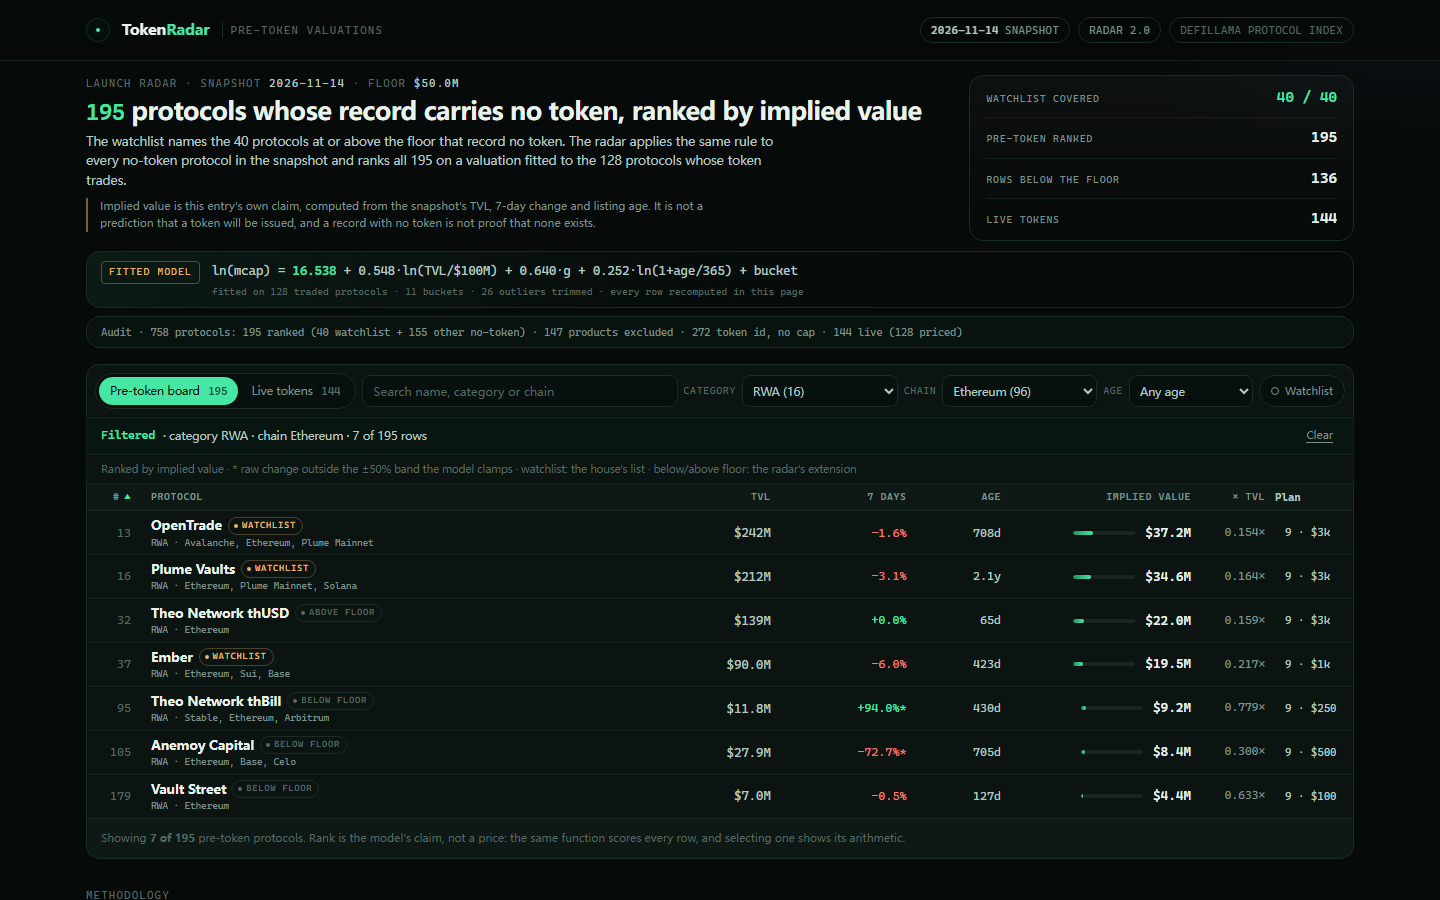
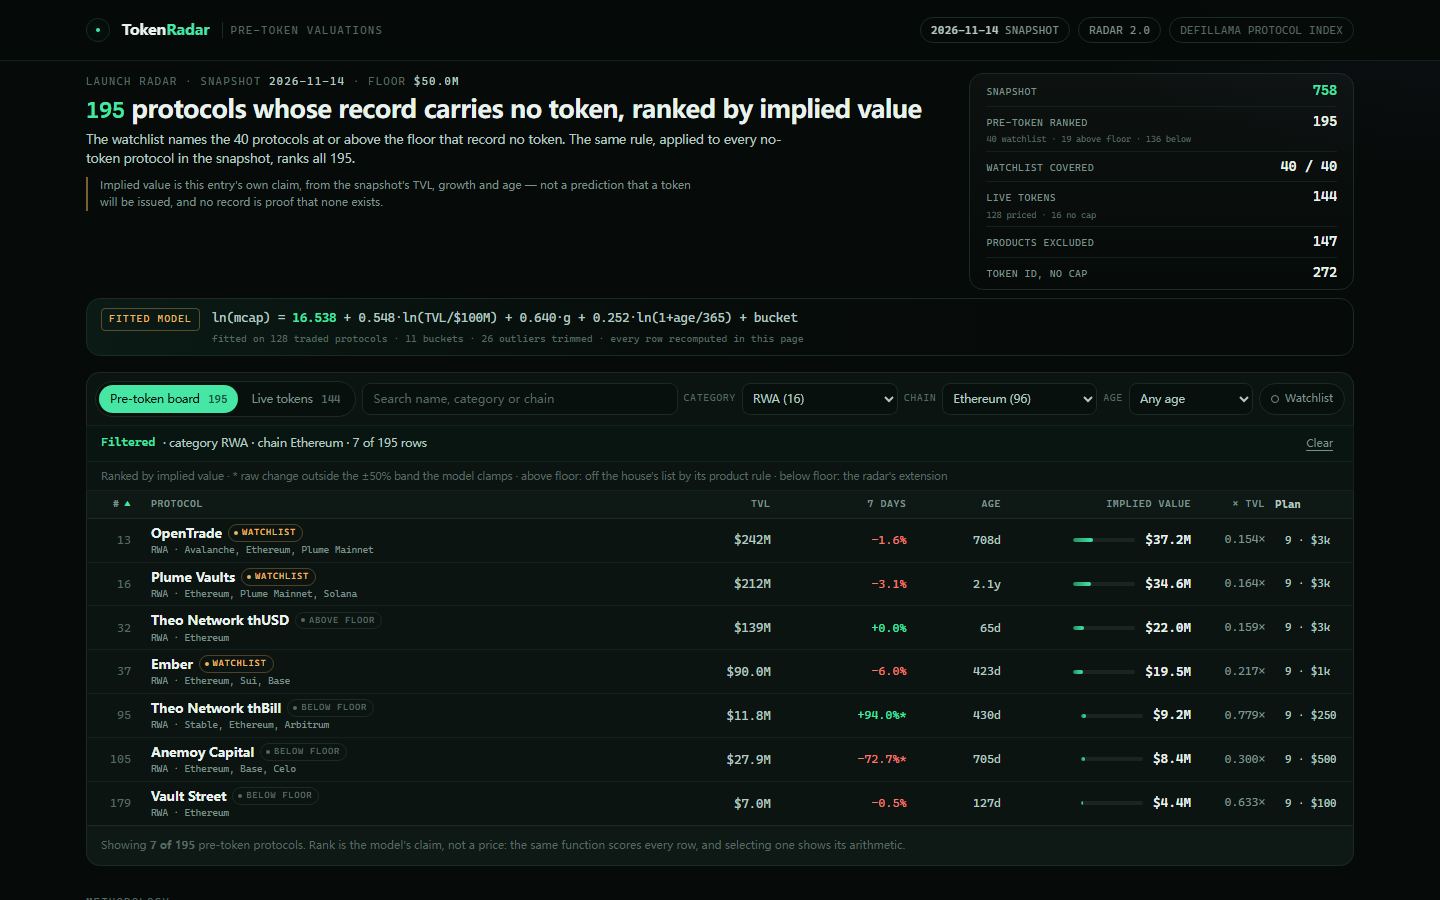
entry: v4 — the audit in the stats card, the above-floor note, zero-cap marks

diff --git a/dashboard/app.js b/dashboard/app.js
@@ -1,6 +1,5 @@
-// Token Radar — the page's behaviour. window.RADAR (written beside dashboard/ by main.ts) carries the
-// snapshot's provenance, the fitted model, the board's inputs and the live rows; every implied value is
-// recomputed from the fitted coefficients and checked against board.json's. No network.
+// Token Radar — the page's behaviour. window.RADAR (written by main.ts) carries the snapshot, the fitted
+// model, the board's inputs and the live rows; every value is recomputed and checked against board.json.
 (function () {
   'use strict';
   var D = window.RADAR;
@@ -61,8 +60,8 @@
     return { base: base, size: size, growth: growth, age: age, category: category, value: value };
   }
   //
-  // Each row's plan and budget travel in data.js (main.ts derives them in lib/farm.ts); the gate's
-  // browser check compares the page's rendering with board.json, and this exposes the page's arithmetic.
+  // Plans and budgets travel in data.js (derived in lib/farm.ts); this exposes the page's arithmetic to
+  // the gate's browser check, which compares the rendering with board.json.
   window.radarParts = partsFor;
   var state = { tab: 'pre', q: '', category: 'all', chain: 'all', age: 'all', watch: false, sort: 'rank', dir: 1, open: null };
   var maxImplied = 1;
@@ -134,10 +133,9 @@
     document.getElementById('hero-floor').textContent = shortUsd(D.floor_usd);
     document.getElementById('hero-count').textContent = D.board_size;
     document.getElementById('facts').textContent = M.facts;
-    document.getElementById('legend').textContent = 'Ranked by implied value · * raw change outside the ±' + M.growth_clip_pct + '% band the model clamps · watchlist: the house\'s list · below/above floor: the radar\'s extension';
+    document.getElementById('legend').textContent = 'Ranked by implied value · * raw change outside the ±' + M.growth_clip_pct + '% band the model clamps · above floor: off the house\'s list by its product rule · below floor: the radar\'s extension';
     document.getElementById('hero-lede').textContent =
-      'The watchlist names the ' + D.watchlist_size + ' protocols at or above the floor that record no token. The radar applies the same rule to every no-token protocol in the snapshot and ranks all ' + D.board_size +
-      ' on a valuation fitted to the ' + D.model.training.n + ' protocols whose token trades.';
+      'The watchlist names the ' + D.watchlist_size + ' protocols at or above the floor that record no token. The same rule, applied to every no-token protocol in the snapshot, ranks all ' + D.board_size + '.';
     document.getElementById('tab-pre-count').textContent = D.board_size;
     document.getElementById('tab-live-count').textContent = D.live_size;
     document.getElementById('foot-source').textContent = D.source;
@@ -146,21 +144,21 @@
       ' other no-token protocols · ' + D.live_size + ' live tokens · ' + D.as_of + '.';
     var stats = document.getElementById('hero-stats');
     clear(stats);
+    var A = D.audit;
     [
+      ['Snapshot', whole(A.total)],
+      ['Pre-token ranked', whole(A.ranked), A.watchlist + ' watchlist · ' + A.above_floor_others + ' above floor · ' + A.below_floor + ' below'],
       ['Watchlist covered', D.watchlist_size + ' / ' + D.watchlist_size],
-      ['Pre-token ranked', whole(D.board_size)],
-      ['Rows below the floor', whole(D.below_floor_size)],
-      ['Live tokens', whole(D.live_size)],
+      ['Live tokens', whole(A.live), A.live_priced + ' priced · ' + (A.live - A.live_priced) + ' no cap'],
+      ['Products excluded', whole(A.excluded)],
+      ['Token id, no cap', whole(A.token_no_cap)],
     ].forEach(function (s) {
       var row = el('div', 'fact');
       row.appendChild(el('span', null, s[0]));
       row.appendChild(el('b', null, s[1]));
+      if (s[2]) row.appendChild(el('em', null, s[2]));
       stats.appendChild(row);
     });
-    var A = D.audit;
-    document.getElementById('audit').textContent =
-      'Audit · ' + A.total + ' protocols: ' + A.ranked + ' ranked (' + A.watchlist + ' watchlist + ' + (A.ranked - A.watchlist) + ' other no-token) · ' +
-      A.excluded + ' products excluded · ' + A.token_no_cap + ' token id, no cap · ' + A.live + ' live (' + A.live_priced + ' priced)';
     var coef = D.model.coefficients;
     var equation = document.getElementById('equation');
     clear(equation);
@@ -348,8 +346,8 @@
       if (!q) return true;
       return [r.name, r.slug, r.category || '', r.bucket || '', (r.chains || []).join(' ')].join(' ').toLowerCase().indexOf(q) >= 0;
     }).sort(function (a, b) {
-      var ra = Math.abs(Math.log(a.mcap_usd / partsFor(a).value));
-      var rb = Math.abs(Math.log(b.mcap_usd / partsFor(b).value));
+      var ra = a.mcap_usd > 0 ? Math.abs(Math.log(a.mcap_usd / partsFor(a).value)) : Infinity;
+      var rb = b.mcap_usd > 0 ? Math.abs(Math.log(b.mcap_usd / partsFor(b).value)) : Infinity;
       return ra - rb || b.mcap_usd - a.mcap_usd;
     });
   }
@@ -370,6 +368,7 @@
       var tr = el('tr');
       var proto = el('td', 'c-protocol');
       var name = el('div', 'p-name', row.name);
+      if (!(row.mcap_usd > 0)) name.appendChild(el('span', 'watchdot floor', 'no cap'));
       proto.appendChild(name);
       var sub = el('div', 'p-sub', (row.category || 'Other') + ' · ' + ((row.chains || []).slice(0, 3).join(', ') || 'unnamed chain'));
       proto.appendChild(sub);
@@ -381,20 +380,23 @@
       change.className += cc.cls;
       if (cc.title) change.title = cc.title;
       tr.appendChild(change);
-      tr.appendChild(el('td', 'num c-tvl', shortUsd(row.mcap_usd)));
+      tr.appendChild(el('td', 'num c-tvl', row.mcap_usd > 0 ? shortUsd(row.mcap_usd) : '—'));
       var parts = partsFor(row);
       tr.appendChild(el('td', 'num c-tvl', shortUsd(parts.value)));
-      var ratio = row.mcap_usd / parts.value;
       var cell = el('td', 'num c-mult');
-      var pill = el('span', 'ratio ' + (ratio >= 0.5 && ratio <= 2 ? 'ok' : 'off'), ratio.toFixed(2) + '×');
-      cell.appendChild(pill);
+      if (row.mcap_usd > 0) {
+        var ratio = row.mcap_usd / parts.value;
+        cell.appendChild(el('span', 'ratio ' + (ratio >= 0.5 && ratio <= 2 ? 'ok' : 'off'), ratio.toFixed(2) + '×'));
+      } else {
+        cell.textContent = '—';
+      }
       tr.appendChild(cell);
       fragment.appendChild(tr);
     });
     body.appendChild(fragment);
     var foot = document.getElementById('board-foot');
     clear(foot);
-    foot.appendChild(document.createTextNode("The live set is the model's own exam: these " + D.live_size + " protocols record a market cap (some at zero), so the cap is a fact and the fitted value is what the model would have said about the same record. " +
+    foot.appendChild(document.createTextNode("The live set is the model's own exam: these " + D.live_size + " protocols record a market cap (the " + (D.audit.live - D.audit.live_priced) + " without a positive cap are marked), so the cap is a fact and the fitted value is what the model would have said about the same record. " +
       "Sorted by how close the fit came: a ratio near 1.00 means the model priced the record like the market did; the outliers are why the median out-of-sample error is " + M.validation.median_factor + "×."));
   }
   function openDetail(slug) {

diff --git a/dashboard/app.css b/dashboard/app.css
@@ -45,7 +45,7 @@ a { color: var(--mint); text-decoration: none; }
 
 /* hero */
 main { max-width: 1340px; margin: 0 auto; padding: 0 36px; }
-.hero { display: grid; grid-template-columns: minmax(0, 1.55fr) minmax(300px, 0.7fr); gap: 32px; padding: 14px 0 10px; align-items: start; }
+.hero { display: grid; grid-template-columns: minmax(0, 1.55fr) minmax(300px, 0.7fr); gap: 32px; padding: 12px 0 8px; align-items: start; }
 .eyebrow { font-family: var(--mono); font-size: 10.5px; letter-spacing: 0.14em; text-transform: uppercase; color: var(--faint); }
 .eyebrow span { color: var(--ink-2); }
 .hero h1 { margin-top: 6px; }
@@ -53,10 +53,11 @@ main { max-width: 1340px; margin: 0 auto; padding: 0 36px; }
 .lede { margin-top: 6px; max-width: 96ch; color: var(--ink-2); font-size: 12.5px; }
 .disclaimer { margin-top: 8px; max-width: 96ch; padding-left: 12px; border-left: 2px solid rgba(234, 180, 99, 0.5); color: var(--muted); font-size: 11px; }
 .stats { display: grid; margin: 0; padding: 2px 16px; border: 1px solid var(--line); border-radius: var(--r); background: linear-gradient(180deg, rgba(255, 255, 255, 0.028), transparent); }
-.fact { display: flex; align-items: baseline; justify-content: space-between; gap: 12px; padding: 8px 0; border-bottom: 1px solid var(--line-2); }
+.fact { display: grid; grid-template-columns: 1fr auto; gap: 1px 10px; padding: 4px 0; border-bottom: 1px solid var(--line-2); align-items: baseline; }
 .fact:last-child { border-bottom: 0; }
-.fact span { font-family: var(--mono); font-size: 10px; letter-spacing: 0.08em; text-transform: uppercase; color: var(--muted); }
-.fact b { font-family: var(--mono); font-size: 15px; font-weight: 500; letter-spacing: -0.01em; }
+.fact span { font-family: var(--mono); font-size: 9.5px; letter-spacing: 0.08em; text-transform: uppercase; color: var(--muted); }
+.fact b { font-family: var(--mono); font-size: 14px; font-weight: 500; letter-spacing: -0.01em; }
+.fact em { grid-column: 1 / -1; font-family: var(--mono); font-size: 8.5px; color: var(--faint); letter-spacing: 0; }
 .fact:first-child b { color: var(--mint); }
 
 /* model strip */
@@ -67,7 +68,6 @@ main { max-width: 1340px; margin: 0 auto; padding: 0 36px; }
 .tag { flex: none; font-family: var(--mono); font-size: 9.5px; letter-spacing: 0.14em; text-transform: uppercase; color: var(--amber); padding: 3px 7px; border: 1px solid rgba(234, 180, 99, 0.35); border-radius: 4px; }
 .modelbar code { font-size: 12.5px; color: var(--ink-2); white-space: nowrap; overflow: hidden; text-overflow: ellipsis; }
 .modelbar code b { color: var(--mint); font-weight: 500; }
-.audit { margin: 8px 0 0; padding: 7px 14px; border: 1px solid var(--line); border-radius: var(--r); background: rgba(70, 230, 165, 0.04); font-family: var(--mono); font-size: 10.5px; color: var(--muted); }
 
 /* toolbar */
 .workspace { padding-top: 16px; }

diff --git a/dashboard/index.html b/dashboard/index.html
@@ -27,7 +27,7 @@
       <p class="eyebrow">Launch radar · snapshot <span id="hero-asof">—</span> · floor <span id="hero-floor">—</span></p>
       <h1><em id="hero-count">—</em> protocols whose record carries no token, ranked by implied value</h1>
       <p class="lede" id="hero-lede">—</p>
-      <p class="disclaimer">Implied value is this entry's own claim, computed from the snapshot's TVL, 7-day change and listing age. It is not a prediction that a token will be issued, and a record with no token is not proof that none exists.</p>
+      <p class="disclaimer">Implied value is this entry's own claim, from the snapshot's TVL, growth and age — not a prediction that a token will be issued, and no record is proof that none exists.</p>
     </div>
     <dl class="stats" id="hero-stats"></dl>
   </section>
@@ -40,8 +40,6 @@
       </div>
     </div>
   </section>
-  <p class="audit" id="audit">—</p>
-
   <section class="workspace" aria-label="The board">
     <div class="toolbar">
       <div class="tabs" role="tablist" aria-label="Token status">
